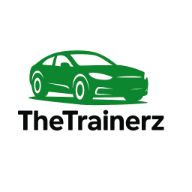
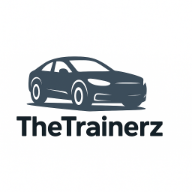
colours

Changed region(s): [[0.0625, 0.25, 0.875, 0.7188]]

diff --git a/pages/index.tsx b/pages/index.tsx
@@ -17,7 +17,8 @@ export default function Home() {
           content="Flexible schedules, expert instructors, and high first-time pass rates in Lahore."
         />
         <meta name="viewport" content="width=device-width, initial-scale=1" />
-          <link rel="icon" href="/favicon.ico" /></Head>
+        <link rel="icon" href="/favicon.ico" />
+      </Head>
 
       <Navbar />
 
@@ -106,7 +107,7 @@ function Navbar() {
             href={WA_LINK}
             target="_blank"
             rel="noopener noreferrer"
-            className="inline-flex items-center justify-center rounded-xl px-5 py-3 font-semibold bg-green-500 text-white hover:bg-green-600 shadow"
+            className="inline-flex items-center justify-center rounded-xl px-5 py-3 font-semibold bg-[#324354] text-white hover:bg-[#000] shadow"
           >
             WhatsApp
           </a>
@@ -168,7 +169,7 @@ function Hero() {
     >
       <div className="mx-auto max-w-7xl px-4 sm:px-6 lg:px-8 grid lg:grid-cols-2 gap-10 py-16 lg:py-24 items-center">
         <div>
-          <span className="inline-flex items-center gap-2 rounded-full bg-teal-50 text-teal-700 px-3 py-1 text-xs font-semibold">
+          <span className="inline-flex items-center gap-2 rounded-full bg-teal-50 text-[#324354] px-3 py-1 text-xs font-semibold">
             City Traffic Certified Instructors
           </span>
           <h1 className="text-4xl md:text-6xl font-extrabold leading-tight">
@@ -179,7 +180,7 @@ function Hero() {
               href={WA_LINK}
               target="_blank"
               rel="noopener noreferrer"
-              className="inline-flex items-center justify-center rounded-xl px-5 py-3 font-semibold bg-green-500 text-white hover:bg-green-600 shadow"
+              className="inline-flex items-center justify-center rounded-xl px-5 py-3 font-semibold bg-[#324354] text-white hover:bg-[#000] shadow"
             >
               Chat on WhatsApp
             </a>
@@ -195,7 +196,7 @@ function Hero() {
         </div>
         <div className="relative">
           <img
-            src="https://static.vecteezy.com/system/resources/thumbnails/015/658/427/small_2x/drive-learn-road-sign-illustration-png.png"
+            src="/banner.png"
             alt="Driving lesson"
             className="rounded-2xl shadow w-full "
           />
@@ -227,7 +228,9 @@ function Stats() {
               key={d.v}
               className="rounded-2xl bg-white shadow border border-slate-100 p-6 text-center"
             >
-              <div className="text-3xl font-extrabold text-teal-600">{d.k}</div>
+              <div className="text-3xl font-extrabold text-[#324354]">
+                {d.k}
+              </div>
               <div className="text-sm text-slate-600 mt-1">{d.v}</div>
             </div>
           ))}
@@ -270,7 +273,7 @@ function Courses() {
           <ul className="mt-6 space-y-3 text-slate-700 text-sm ">
             {course.items.map((i) => (
               <li key={i} className="flex items-center gap-2">
-                <span className="inline-flex h-5 w-5 items-center justify-center rounded-full bg-green-100 text-green-700 text-xs font-bold">
+                <span className="inline-flex h-5 w-5 items-center justify-center rounded-full bg-[#324354] text-white text-xs font-bold">
                   ✓
                 </span>
                 {i}
@@ -311,7 +314,7 @@ function Roadmap() {
               key={t}
               className="rounded-2xl bg-white shadow border border-slate-100 p-5 flex gap-3"
             >
-              <span className="h-8 w-8 shrink-0 rounded-full bg-teal-600 text-white flex items-center justify-center font-bold">
+              <span className="h-8 w-8 shrink-0 rounded-full bg-[#324354] text-white flex items-center justify-center font-bold">
                 {idx + 1}
               </span>
               <span className="text-slate-800">{t}</span>
@@ -323,7 +326,7 @@ function Roadmap() {
             href={WA_LINK}
             target="_blank"
             rel="noopener noreferrer"
-            className="inline-flex items-center justify-center rounded-xl px-6 py-3 font-semibold bg-green-500 text-white hover:bg-green-600 shadow"
+            className="inline-flex items-center justify-center rounded-xl px-6 py-3 font-semibold bg-[#324354] text-white hover:bg-[#000000] shadow"
           >
             Book via WhatsApp
           </a>
@@ -352,7 +355,7 @@ function Benefits() {
               key={b}
               className="rounded-2xl bg-white shadow border border-slate-100 p-5 flex items-start gap-3"
             >
-              <span className="mt-1 inline-flex h-6 w-6 items-center justify-center rounded-full bg-green-100 text-green-700 font-bold">
+              <span className="mt-1 inline-flex h-6 w-6 items-center justify-center rounded-full bg-[#324354] text-white font-bold">
                 ✓
               </span>
               <span className="text-slate-800">{b}</span>
@@ -394,7 +397,7 @@ function Steps() {
               key={s.n}
               className="rounded-2xl bg-white shadow border border-slate-100 p-6"
             >
-              <div className="h-10 w-10 rounded-full bg-teal-600 text-white flex items-center justify-center font-bold">
+              <div className="h-10 w-10 rounded-full bg-[#324354] text-white flex items-center justify-center font-bold">
                 {s.n}
               </div>
               <h3 className="mt-3 font-semibold">{s.t}</h3>
@@ -407,7 +410,7 @@ function Steps() {
             href={WA_LINK}
             target="_blank"
             rel="noopener noreferrer"
-            className="inline-flex items-center justify-center rounded-xl px-6 py-3 font-semibold bg-green-500 text-white hover:bg-green-600 shadow"
+            className="inline-flex items-center justify-center rounded-xl px-6 py-3 font-semibold bg-[#324354] text-white hover:bg-[#000] shadow"
           >
             Start on WhatsApp
           </a>
@@ -454,7 +457,7 @@ function Why() {
           <ul className="mt-6 space-y-4">
             {bullets.map((b) => (
               <li key={b.t} className="flex gap-4">
-                <span className="mt-1 inline-flex h-7 w-7 items-center justify-center rounded-full bg-teal-50 text-teal-700">
+                <span className="mt-1 inline-flex h-7 w-7 items-center justify-center rounded-full bg-[#324354] text-white">
                   ✓
                 </span>
                 <div>
@@ -512,7 +515,7 @@ function FAQ() {
             href={WA_LINK}
             target="_blank"
             rel="noopener noreferrer"
-            className="inline-flex items-center justify-center rounded-xl px-6 py-3 font-semibold bg-green-500 text-white hover:bg-green-600 shadow"
+            className="inline-flex items-center justify-center rounded-xl px-6 py-3 font-semibold bg-[#324354] text-white hover:bg-[#000] shadow"
           >
             Ask on WhatsApp
           </a>
@@ -538,7 +541,7 @@ function CTA() {
             href={WA_LINK}
             target="_blank"
             rel="noopener noreferrer"
-            className="inline-flex items-center justify-center rounded-xl px-8 py-4 font-semibold bg-green-500 text-white hover:bg-green-600 shadow"
+            className="inline-flex items-center justify-center rounded-xl px-8 py-4 font-semibold bg-[#324354] text-white hover:bg-[#000] shadow"
           >
             Message on WhatsApp
           </a>
@@ -581,7 +584,7 @@ function Contact() {
               href={WA_LINK}
               target="_blank"
               rel="noopener noreferrer"
-              className="inline-flex items-center justify-center rounded-xl px-6 py-3 font-semibold bg-green-500 text-white hover:bg-green-600 shadow"
+              className="inline-flex items-center justify-center rounded-xl px-6 py-3 font-semibold bg-[#324354] text-white hover:bg-[#000] shadow"
             >
               Message us on WhatsApp
             </a>
